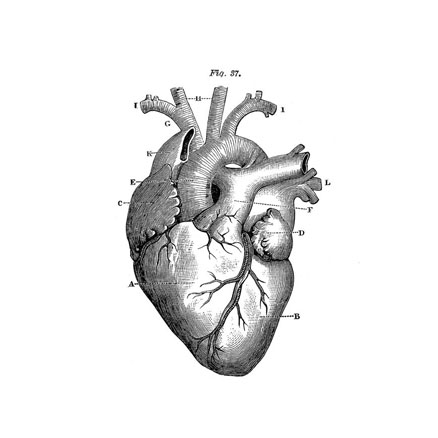
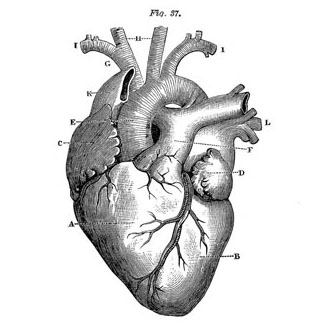
image reformat; next: update projects'

Changed region(s): [[0.1515, 0.0303, 0.8182, 0.9697]]

diff --git a/index.html b/index.html
@@ -95,14 +95,14 @@
 							<!-- <article class="col-6 col-12-xsmall work-item"> -->
 							<article class="col-12 col-12-xsmall work-item">
 								<div class="row">
-									<div class="col-6">
+									<div class="col-4">
 										<!-- <a href="images/pic01.jpg" class="image fit thumb">
 											<img src="images/pic01.jpg" alt=""/>
 										</a> -->
 										<!-- no click -->
 											<img src="images/pic01.jpg" alt="" class="image fit thumb"/>
 									</div>
-									<div class="col-6">
+									<div class="col-8">
 										<h3>Research</h3>
 										<p>
 											I've always been curious about female health, exercise, and healthcare. Specifically, I'm interested in whether or not we can improve our lives and health by better understanding our own physiological mechanisms. <br/>For my <a href="research.html">master's project</a>, we're looking at slow breathing as a non-pharmacological adjunct treatment for hypertension.<br/>In a Mitacs collaboration with <a href="https://eli.health/" target="_blank">Eli Health</a>, my team and I are reviewing the correlation between salivary and blood-derived estradiol and progesterone concentrations in clinical and healthy populations.
@@ -112,7 +112,7 @@
 
 							<article class="col-12 col-12-xsmall work-item">
 								<div class="row">
-									<div class="col-6">
+									<div class="col-8">
 										<h3>Courses</h3>
 										<p>
 											This year, I finally bit the bullet and completed the <a href="https://www.udemy.com/course/the-web-developer-bootcamp/">The Web Dev Bootcamp</a>, a 47 hour full-stack bootcamp on Udemy, and <a href="https://www.udemy.com/course/javascript-beginners-complete-tutorial/">The Modern Javascript Bootcamp Course (2021)</a>, a 52 hour class on JS. <br/>
@@ -120,30 +120,45 @@
 											Now, I'm learning data visualization with D3, React, and Expo - I want to be able to make information accessible and beautiful, to create order from chaos.
 										</p>
 									</div>
-									<div class="col-6">
+									<div class="col-4">
 										<img src="images/pic02.jpg" alt="" class="image fit thumb"/>
 									</div>
 							</article>
 
-							<article class="col-6 col-12-xsmall work-item">
-								<!-- <a href="images/fulls/03.jpg" class="image fit thumb"><img src="images/thumbs/03.jpg" alt="" /></a> -->
-								<h3>Readme</h3>
-								<p>
-									Second to coffee, books are my drug of choice.
-									<a href="https://www.goodreads.com/book/show/38746485-becoming"><br>
-									Last book that made me cry <i class="mx-1 fas fa-book"></i></a>
-									<a href="https://www.goodreads.com/user/show/70781946-seasy-huang"><br/><br/>
-									(Please I need more friends on Goodreads)</a>
-								</p>
+							<article class="col-12 col-12-xsmall work-item">
+								<div class="row">
+									<div class="col-4">
+											<img src="images/pic03.jpg" alt="" class="image fit thumb"/>
+									</div>
+									<div class="col-8">
+										<h3>Readme</h3>
+										<p>
+											Second to coffee, books are my drug of choice.<br/>
+											<a href="https://www.goodreads.com/book/show/38746485-becoming">
+											Last book that made me cry <i class="mx-1 fas fa-book"></i></a>
+											<br/><br/>
+											Come unironically use <a href="https://www.goodreads.com/user/show/70781946-seasy-huang">Goodreads</a> as your preferred social media of choice with me
+										</p>
+									</div>
 							</article>
-							<article class="col-6 col-12-xsmall work-item">
-								<!-- <a href="images/fulls/04.jpg" class="image fit thumb"><img src="images/thumbs/04.jpg" alt="" /></a> -->
-								<h3>Other</h3>
-								<p>
-									2014 <a href="https://carleton.ca/shad/">SHAD Carleton</a> Fellow <i class="mx-1 fa fa-star"></i><br/>
-									2018 <a href="https://www.shad.ca/shad-mcgill-2019/">SHAD McGill</a> Program Assistant <i class="fas fa-sun"></i><br/>
-									<a href="https://www.youtube.com/playlist?list=PL6UHtErYB7xcMBsXDEovhl9x50D4d6lyH"> December 2019 China/Korea trip travel vlog I made for my grandma </a> <i class="mx-1 fa fa-plane"></i>
-								</p>
+
+							<article class="col-12 col-12-xsmall work-item">
+								<div class="row">
+									<div class="col-8">
+										<h3>for funsies</h3>
+										<p>
+											2014 <a href="https://carleton.ca/shad/">SHAD Carleton</a> Fellow <i class="mx-1 fa fa-star"></i><br/>
+											2018 <a href="https://www.shad.ca/shad-mcgill-2019/">SHAD McGill</a> Program Assistant <i class="mx-1 fas fa-sun"></i><br/>
+										 	December 2019 China/Korea trip <a href="https://www.youtube.com/playlist?list=PL6UHtErYB7xcMBsXDEovhl9x50D4d6lyH">travel vlog</a> I made for my grandma  <i class="mx-1 fa fa-plane"></i>
+
+											<br/><br/>
+
+											What's the difference between something you call 'work' and something you call 'fun'?
+										</p>
+									</div>
+									<div class="col-4">
+										<img src="images/pic04.jpg" alt="" class="image fit thumb"/>
+									</div>
 							</article>
 						</div>
 						<ul class="actions">

diff --git a/assets2/css/main.css b/assets2/css/main.css
@@ -2580,7 +2580,7 @@ input, select, textarea {
 /* Work Item */
 
 	.work-item {
-		margin: 0 0 2em 0;
+		margin: 3em 0 2em 0;
 }
 
 		.work-item .image {
@@ -2588,9 +2588,12 @@ input, select, textarea {
 		}
 
 		.work-item h3 {
+			text-transform: uppercase;
 			font-size: 1em;
-			margin: 0 0 0.5em 0;
-			letter-spacing: 0.2rem;
+			margin: 1em 0 1em 0;
+			letter-spacing: 0.6rem;
+			font-weight: 900;
+			color: #eea498;
 		}
 
 		.work-item p {
